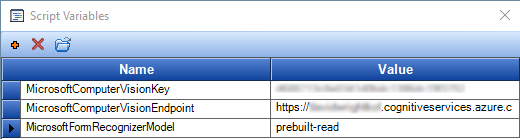
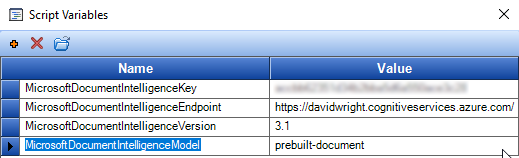
updated readme to DI

diff --git a/Readme.md b/Readme.md
@@ -1,11 +1,20 @@
-# Microsoft Azure OCR for Kofax Transformation
-This repository supports different Microsoft OCR engines
-* Document Intelligence 3.0 *optimized for documents*.
-* Document Intelligence 3.1 *coming*
-* [Azure Computer Vision OCR 3.2](https://github.com/KofaxTransformation/MicrosoftOCR/tree/Computer-Vision-OCR-3.2) *optimized for images and not documents*.
-* **Azure AI Vision OCR for Images 4.0** *coming*
+# Microsoft Azure AI Vision and Document Intelligence for Kofax Transformation.
+
+
+Microsoft provides the following AI engines on Azure cloud and on-prem, that can be used in Kofax Transformation.
+* **Azure Document Intelligence** 
+  * *optimized for documents*.
+  * Version 3.0 *OCR, handwriting, zones, tables, key-value pairs, document libraries.*
+  * Version 3.1 *coming.*
+* **Azure Computer Vision OCR** 
+  * optimized for images and not documents*.
+  * Version [3.2](https://github.com/KofaxTransformation/MicrosoftOCR/tree/Computer-Vision-OCR-3.2).
+  * Version 4.0 *coming*.
+
+It is very simple to integrate into Kofax Transformation and Kofax Total Agility. No dlls, plugins or any other software required. Works also on KTA cloud.
+
 ## Downloads
-* [Version 1.0.0](https://github.com/KofaxTransformation/MicrosoftOCR/releases/tag/1.0.0)  (10 Jan 2023). Initial Release. Full page OCR in cloud or on site.
+* [Version 1.0.0](https://github.com/KofaxTransformation/MicrosoftOCR/releases/tag/1.0.0)  (10 Jan 2023). Initial Release Vision OCR 3.2. Full page OCR in cloud or on site.
 * [Version 1.0.1](https://github.com/KofaxTransformation/MicrosoftOCR/releases/tag/1.0.1) (4 July 2023). Supports Advanced Zone Locator.
 * [Version 1.0.2](https://github.com/KofaxTransformation/MicrosoftOCR/releases/tag/1.0.2) (5 July 2023). Allow handwritten words to extend just outside of AZL zones.
 * [Version 1.0.3](https://github.com/KofaxTransformation/MicrosoftOCR/releases/tag/1.0.3) (18 Aug 2023). Switched to Microsoft Document Intelligence - no longer Computer Vision OCR. Added Caching of JSON from KTA Classify to KTA Extract.
@@ -13,8 +22,8 @@ This repository supports different Microsoft OCR engines
 * [Version 1.0.5](https://github.com/KofaxTransformation/MicrosoftOCR/releases/tag/1.0.5) (29 Aug 2023). [Fixed](https://github.com/KofaxTransformation/MicrosoftOCR/commit/62a36fca545373683e7cd807bb3532779e0661e7) error reading model name. Write Microsoft [processing time](https://github.com/KofaxTransformation/MicrosoftOCR/commit/2a1d43c79cd34010817dcc8f64003387a3cb7391) in milliseconds to first word in XDoc Rep called "MicrosoftDI_ProcessingTime".
 ## Description
 Microsoft offers the following services that you can use to read documents.
-* **Document Intelligence 3.0 read model** Form Recognizer**  
-    *optimized for text-heavy scanned and digital documents**. Asynchronous.
+* **Document Intelligence 3.0 read model Form Recognizer**  
+    *optimized for text-heavy scanned and digital documents*. Asynchronous.
     * supports JPEG/JPG, PNG, BMP, TIFF and **PDF**.
     * PDF & TIFF <2000 pages & < 50MB. *The free version reads only first 2 pages*.
     * Text must be at least 12 pixels high. (8pt @ 150dpi)
@@ -35,16 +44,12 @@ Microsoft offers the following services that you can use to read documents.
     * [Version 4.0 Preview](https://learn.microsoft.com/en-us/azure/ai-services/computer-vision/concept-ocr?view=doc-intel-3.0.0). 2023-02-01
     * [Version 3.2](???). 2022-10-12
 
-
-## Details
-
-* JPEG, GIF, PNG, TIFF 50x50 to 4200x4200 pixels, black&white or color.
-* Automatic language detection. Supports [122+ languages](https://learn.microsoft.com/en-us/azure/cognitive-services/computer-vision/language-support#optical-character-recognition-ocr).
-* Handwritten and printed text.
-* On Azure Cloud or [on-premise](https://learn.microsoft.com/en-us/azure/cognitive-services/computer-vision/computer-vision-how-to-install-containers) via Docker Containers.
-* Free tier: 20 calls/minute, 5k calls/month.
-* S1 Tier 10: calls/second @ ~ 80$/1000 calls. See [Pricing]((https://azure.microsoft.com/en-gb/pricing/details/cognitive-services/computer-vision/)) for more.
-* very simple integration into Kofax Transformation and Kofax Total Agility. No dlls, plugins or any other software required. Works also on KTA cloud.
+    * JPEG, GIF, PNG, TIFF 50x50 to 4200x4200 pixels, black&white or color.
+    * Automatic language detection. Supports [122+ languages](https://learn.microsoft.com/en-us/azure/cognitive-services/computer-vision/language-support#optical-character-recognition-ocr).
+    * Handwritten and printed text.
+    * On Azure Cloud or [on-premise](https://learn.microsoft.com/en-us/azure/cognitive-services/computer-vision/computer-vision-how-to-install-containers) via Docker Containers.
+    * Free tier: 20 calls/minute, 5k calls/month.
+    * S1 Tier 10: calls/second @ ~ 80$/1000 calls. See [Pricing]((https://azure.microsoft.com/en-gb/pricing/details/cognitive-services/computer-vision/)) for more.
 ![image](https://user-images.githubusercontent.com/47416964/227095491-b54f09f7-7b2f-4be2-95a7-0b5383185ee3.png)
 ![image](https://user-images.githubusercontent.com/47416964/227095588-62649b39-4648-4c06-aa37-3f77dcf85600.png)
 
